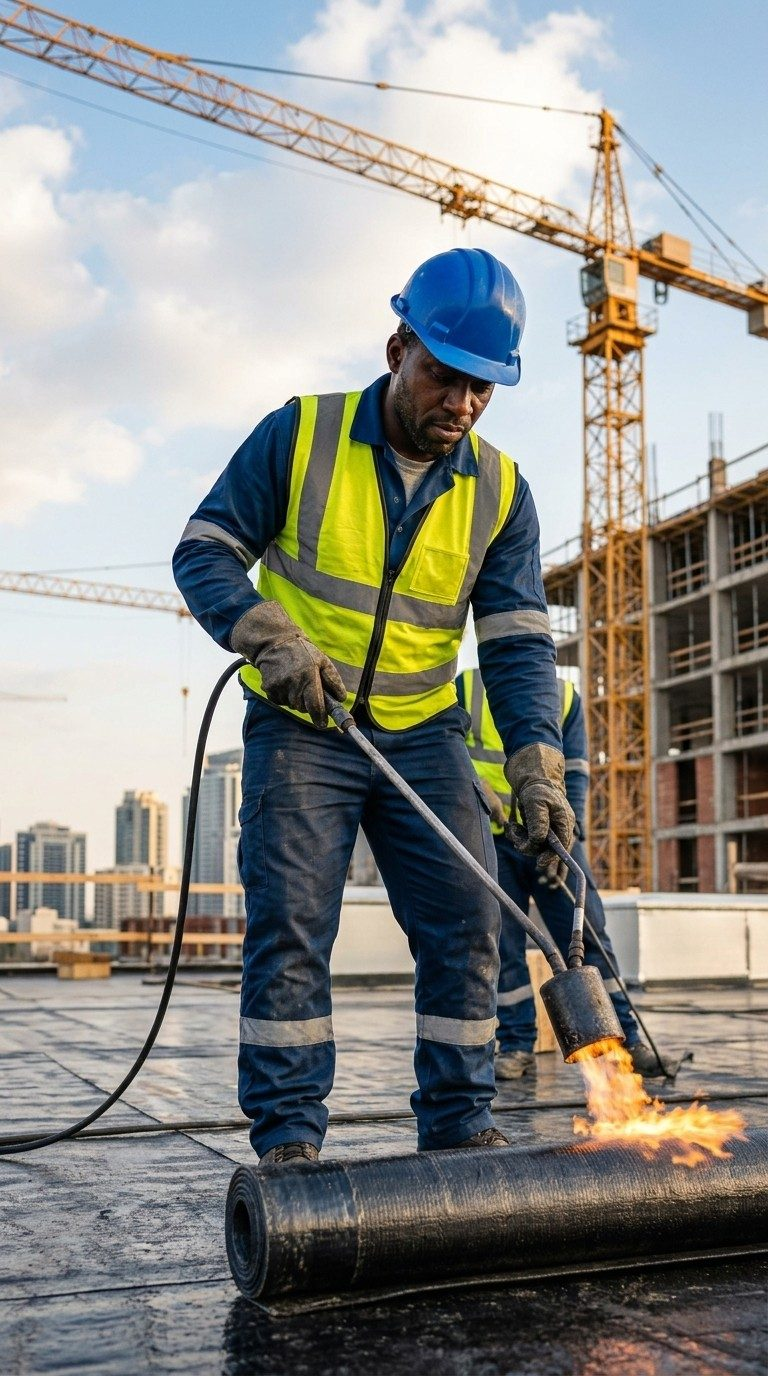
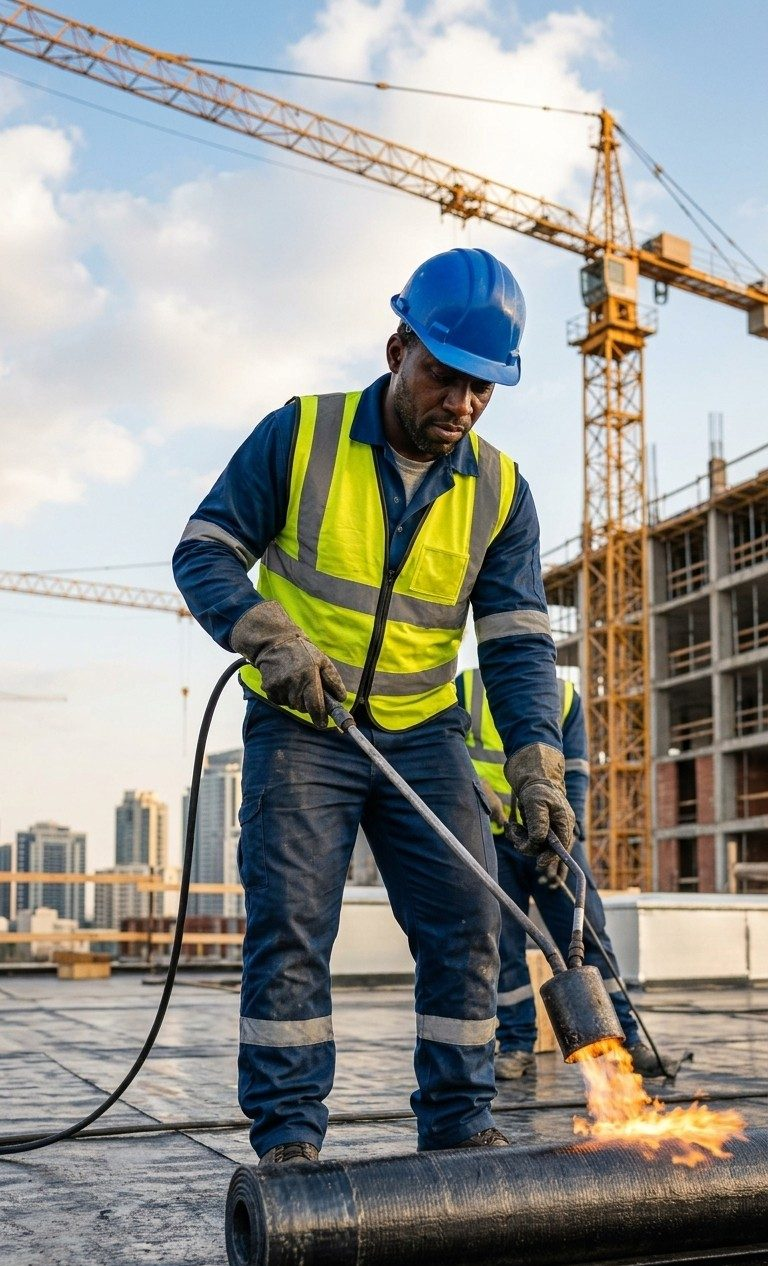
Bring the torch flame into view on the mobile hero
Biasing the crop right put the flame back in frame, but it still was not
visible: at 79% down the image it landed behind the "Need Fast
Assistance" card, which starts at page-y 851 and runs to the base of a
1404px hero. No crop could clear it while keeping the worker in shot.

Two changes make it visible.

Hide the callout card below lg. On phones it was a third copy of CTAs
already on screen - the WhatsApp button carries the same number, the
quote button the same action, and the sticky bottom bar repeats both -
while covering the lower 40% of the photo. Removing it drops the hero
from 1404px to 911px. It is unchanged on desktop, where it sits beside
the copy rather than on top of the picture.

Trim the mobile image at the bottom rather than the top. Cropping sky off
the top raised the flame in the frame but took away the bright area the
dark scrim works against, and the photo flattened to a grey field again.
Trimming 110px of empty roof off the base instead pushes the flame DOWN
to 82-90% of the frame, which now lands below the buttons in the open
strip above the hero's base, and keeps the sky.

Flame band now sits at page-y 749-823 with the WhatsApp button ending at
718, so it is clear of every element in the hero.

diff --git a/src/components/Hero.tsx b/src/components/Hero.tsx
@@ -35,10 +35,10 @@ export const Hero: React.FC<HeroProps> = ({ onOpenQuote }) => {
                cut the torch and flame (they sit at 75-93% across) clean off the
                right edge, leaving only the worker's face and torso. Biasing the
                crop right keeps both him and the work he is doing in frame. */
-            className="w-full h-full object-cover object-[82%_center] md:object-center transform scale-105 transition-transform duration-1000"
+            className="w-full h-full object-cover object-[89%_center] md:object-center transform scale-105 transition-transform duration-1000"
             referrerPolicy="no-referrer"
             width={768}
-            height={1376}
+            height={1266}
             loading="eager"
             fetchPriority="high"
             decoding="async"
@@ -148,8 +148,11 @@ export const Hero: React.FC<HeroProps> = ({ onOpenQuote }) => {
             </div>
           </div>
 
-          {/* Right Hero Callout Card (Floating Quick Inquiry & Direct Number) */}
-          <div className="lg:col-span-4">
+          {/* Right Hero Callout Card (Floating Quick Inquiry & Direct Number).
+              Hidden below lg: on phones it repeated CTAs already present in the
+              WhatsApp button, the quote button and the sticky bottom bar, while
+              covering the lower 40% of the hero photo. */}
+          <div className="hidden lg:block lg:col-span-4">
             {/* Lighter and more translucent on phones so the photo reads
                 through it; stays near-solid on desktop where it sits over the
                 darker side of the gradient. */}
